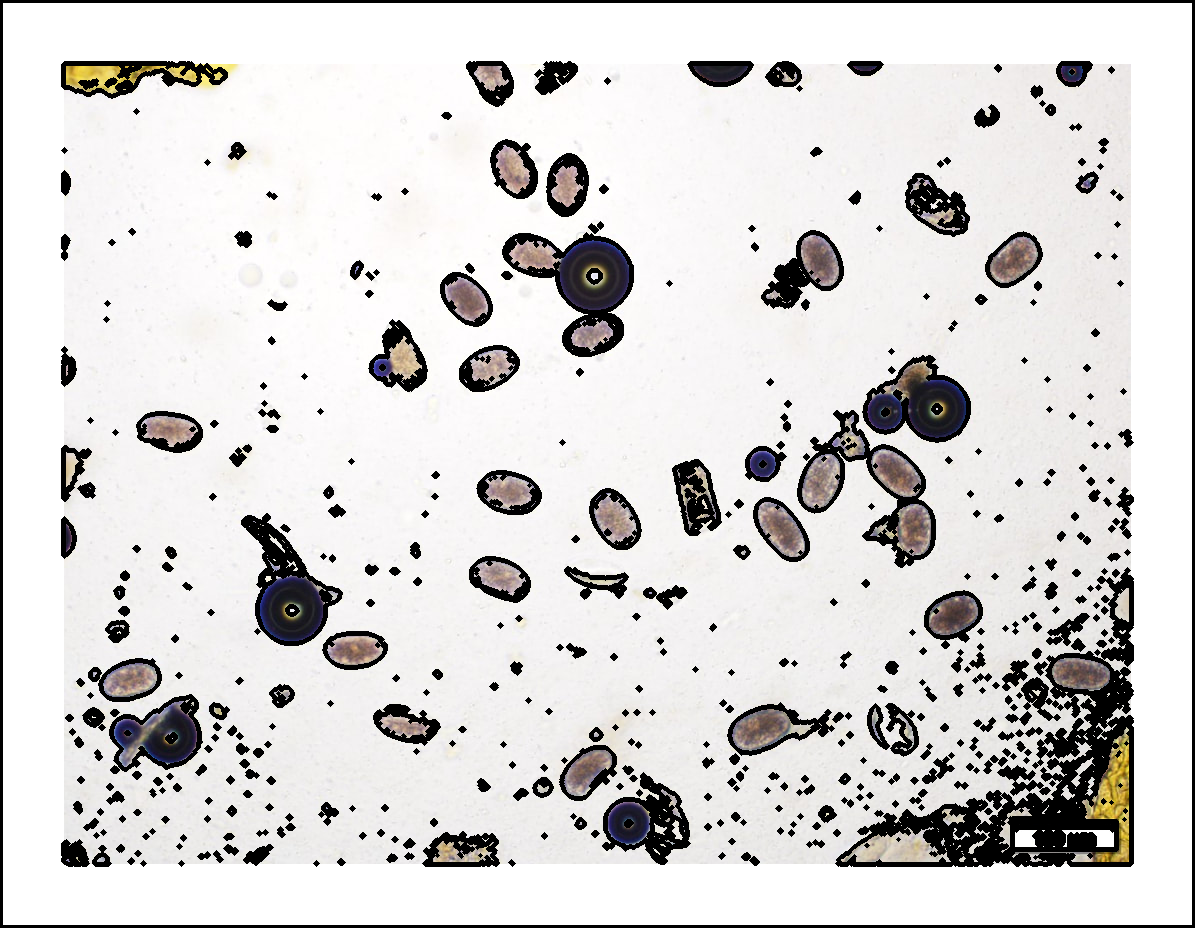
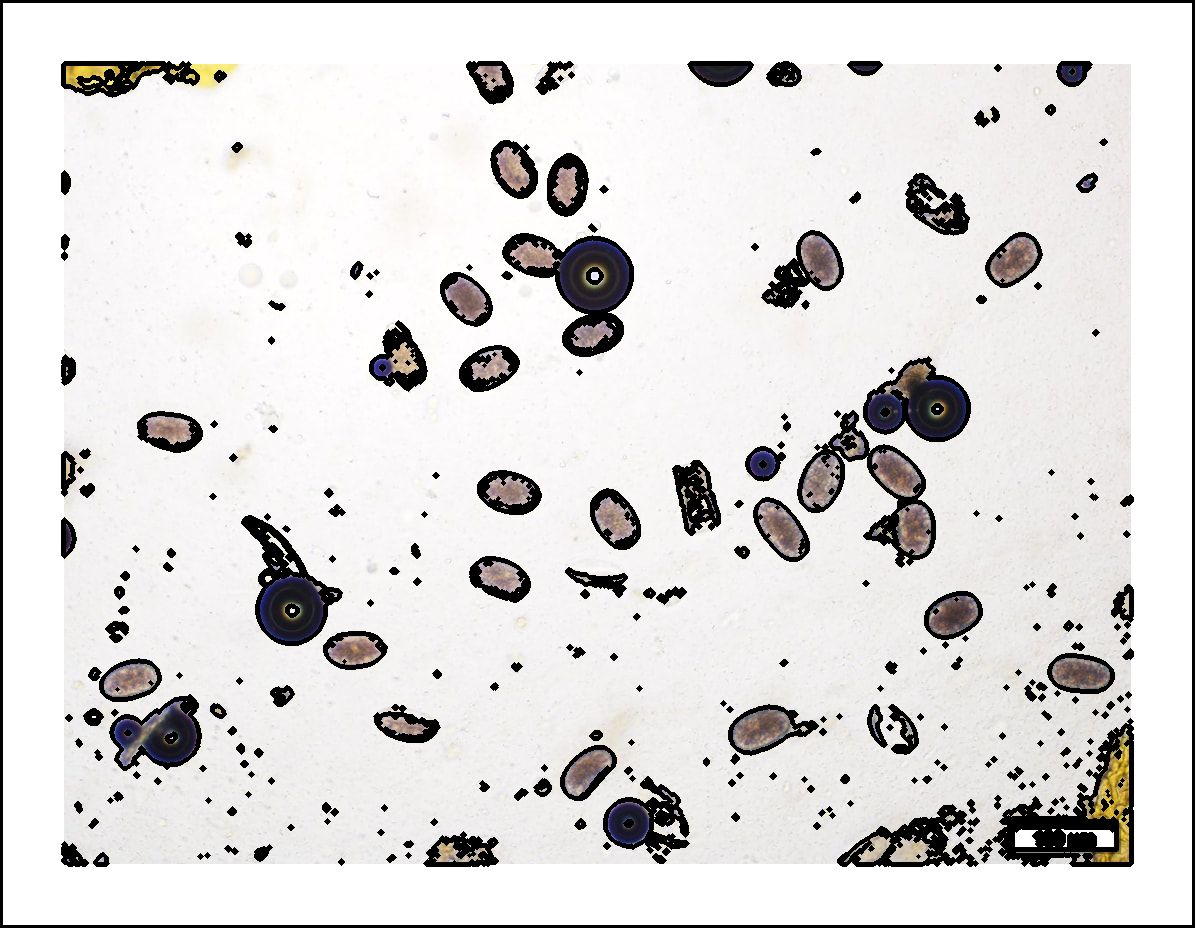
Added Full Python Compatibility for Basic Ellipse Detection with Constrinats

diff --git a/ellipseDetector.py b/ellipseDetector.py
@@ -66,7 +66,7 @@ class ellipseDetector:
         # Filter based on aspect ratio and minimum size
         elongation_factor = abs(1 - aspect_ratio)
         
-        if True: #0.1 < elongation_factor < 1 and 1000 < area < 4000:
+        if 0.1 < elongation_factor and elongation_factor < 1 and 1000 < area < 4000:
             # Approximate contour to smooth shape
             epsilon = 0.01 * cv2.arcLength(Contour, True)
             approx = cv2.approxPolyDP(Contour, epsilon, True)

diff --git a/main.py b/main.py
@@ -13,7 +13,7 @@ def main():
     
     
     
-    fileName = "unlabaled3.jpg"
+    fileName = "unlabeled3.jpg"
     thresh = 210
     
     for i in range(0, len(sys.argv)):
